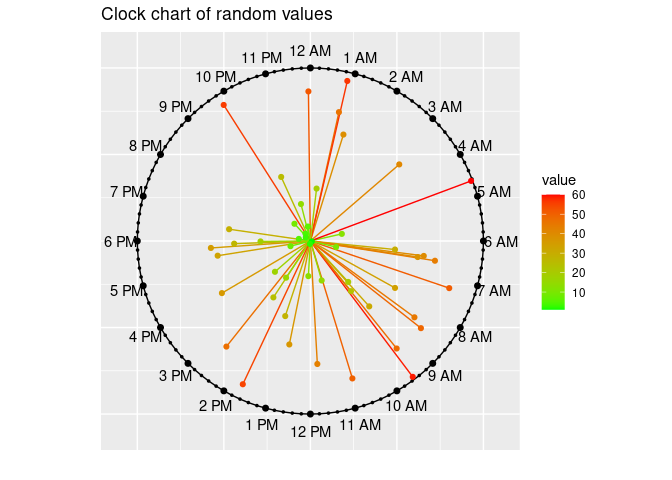
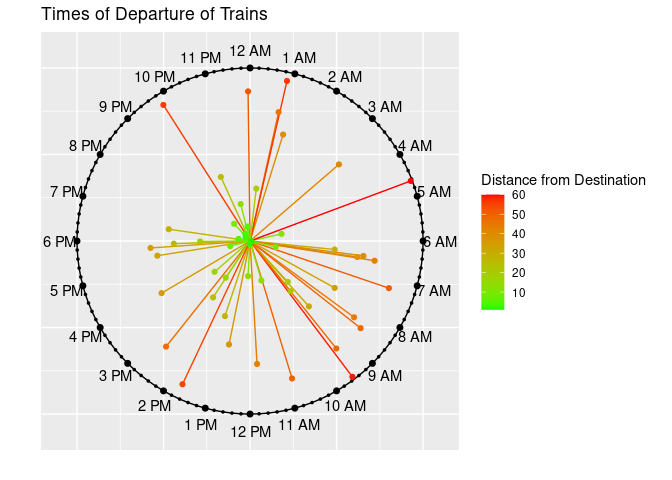
add train and sms example

Changed region(s): [[0.0625, 0.0938, 0.9688, 0.9062], [0.0625, 0.0, 0.5, 0.0625], [0.25, 0.5625, 0.2812, 0.5938]]

diff --git a/README.md b/README.md
@@ -37,30 +37,22 @@ You can also add legend or change its position by using the code
 `theme(legend.position = "right")`; the accepted positions are `top`,
 `bottom`, `left`, and `right`.
 
-### Clock Chart
+## Applications
 
-``` r
-library(clockplot)
+Below we mention some relevant applications. [Click
+here](https://github.com/mahmudstat/clockplot/blob/main/README.Rmd) to
+see the reproducible codes.
 
-set.seed(10)
-df <- tibble::tibble(hr = sample(0:23, 50, replace = TRUE),
-                  mnt = sample(0:59, 50, replace = TRUE),
-                  sec = sample(0:59, 50, replace = TRUE),
-                  time = paste(hr, mnt, sec, sep = ":"),
-                  value = sample(60,50))
-p1 <- clock_chart_qnt(df, time, crit = value)
-p1 + ggplot2::theme(legend.position = "right")+
-ggplot2::labs(title = "Clock chart of random values")
-```
+We have a small data of times of messages received throughout a
+particular day, along with sender of the messages and their types. Let
+us the pattern of messages by senders.
+
+<img src="man/figures/README-exqlt-1.png" alt="SMS times" width="100%" />
+
+### Modifying Clock Hands
 
 <img src="man/figures/README-example-1.png" alt="Clock chart of random event times based on a random sample." width="100%" />
 
 ### Week Chart
-
-``` r
-set.seed(15)
-wtemp <- sample(10:40,7)
-week_chart(wtemp, high = "yellow", lgnm = "Temperature")
-```
 
 <img src="man/figures/README-week-chart-1.png" alt="Week chart of Temperature" width="100%" />
